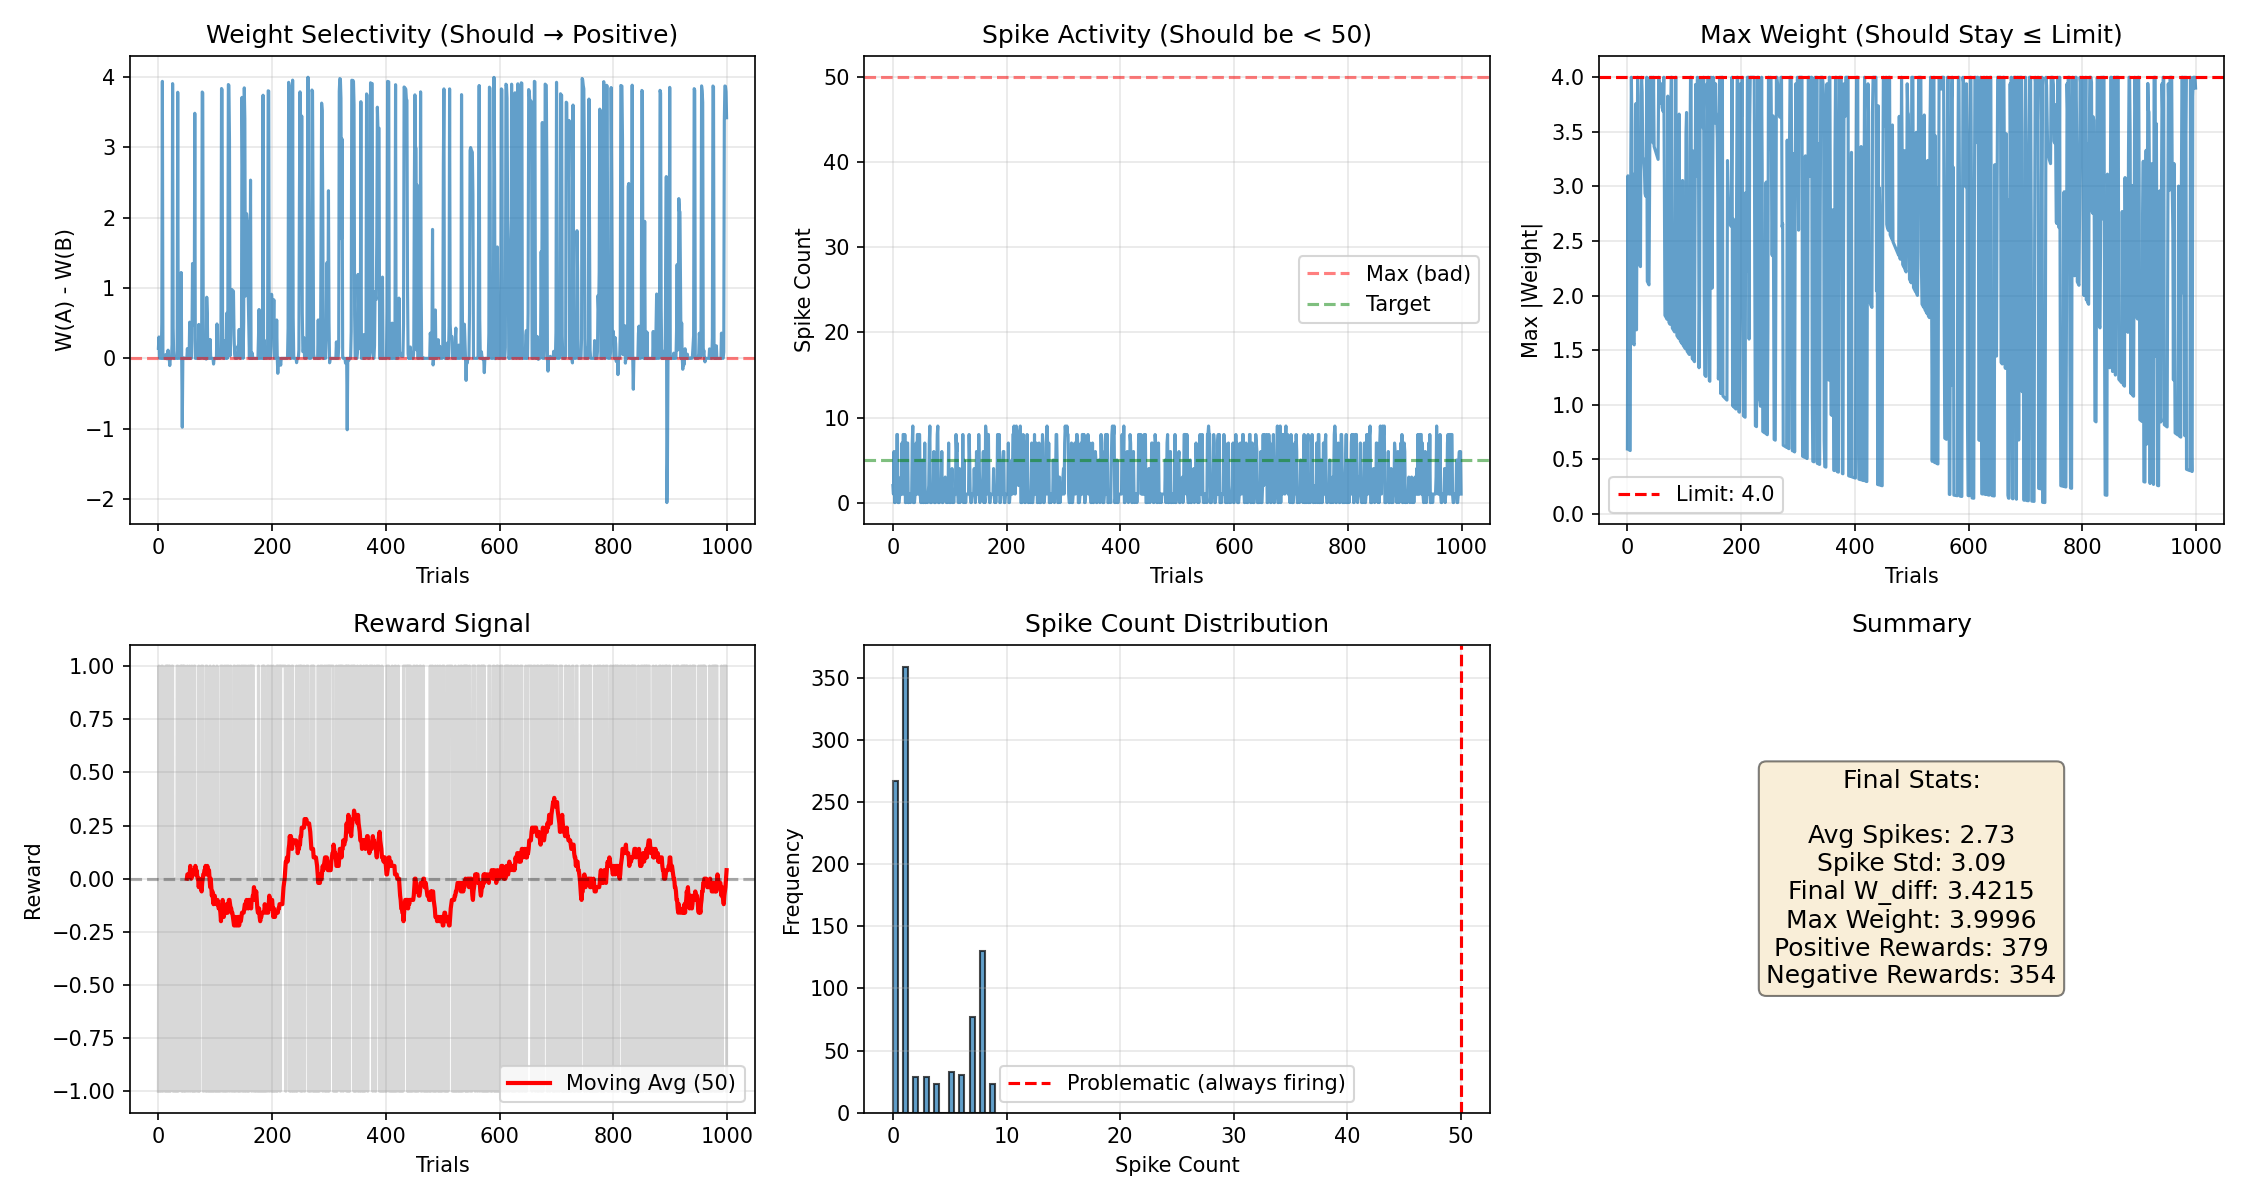
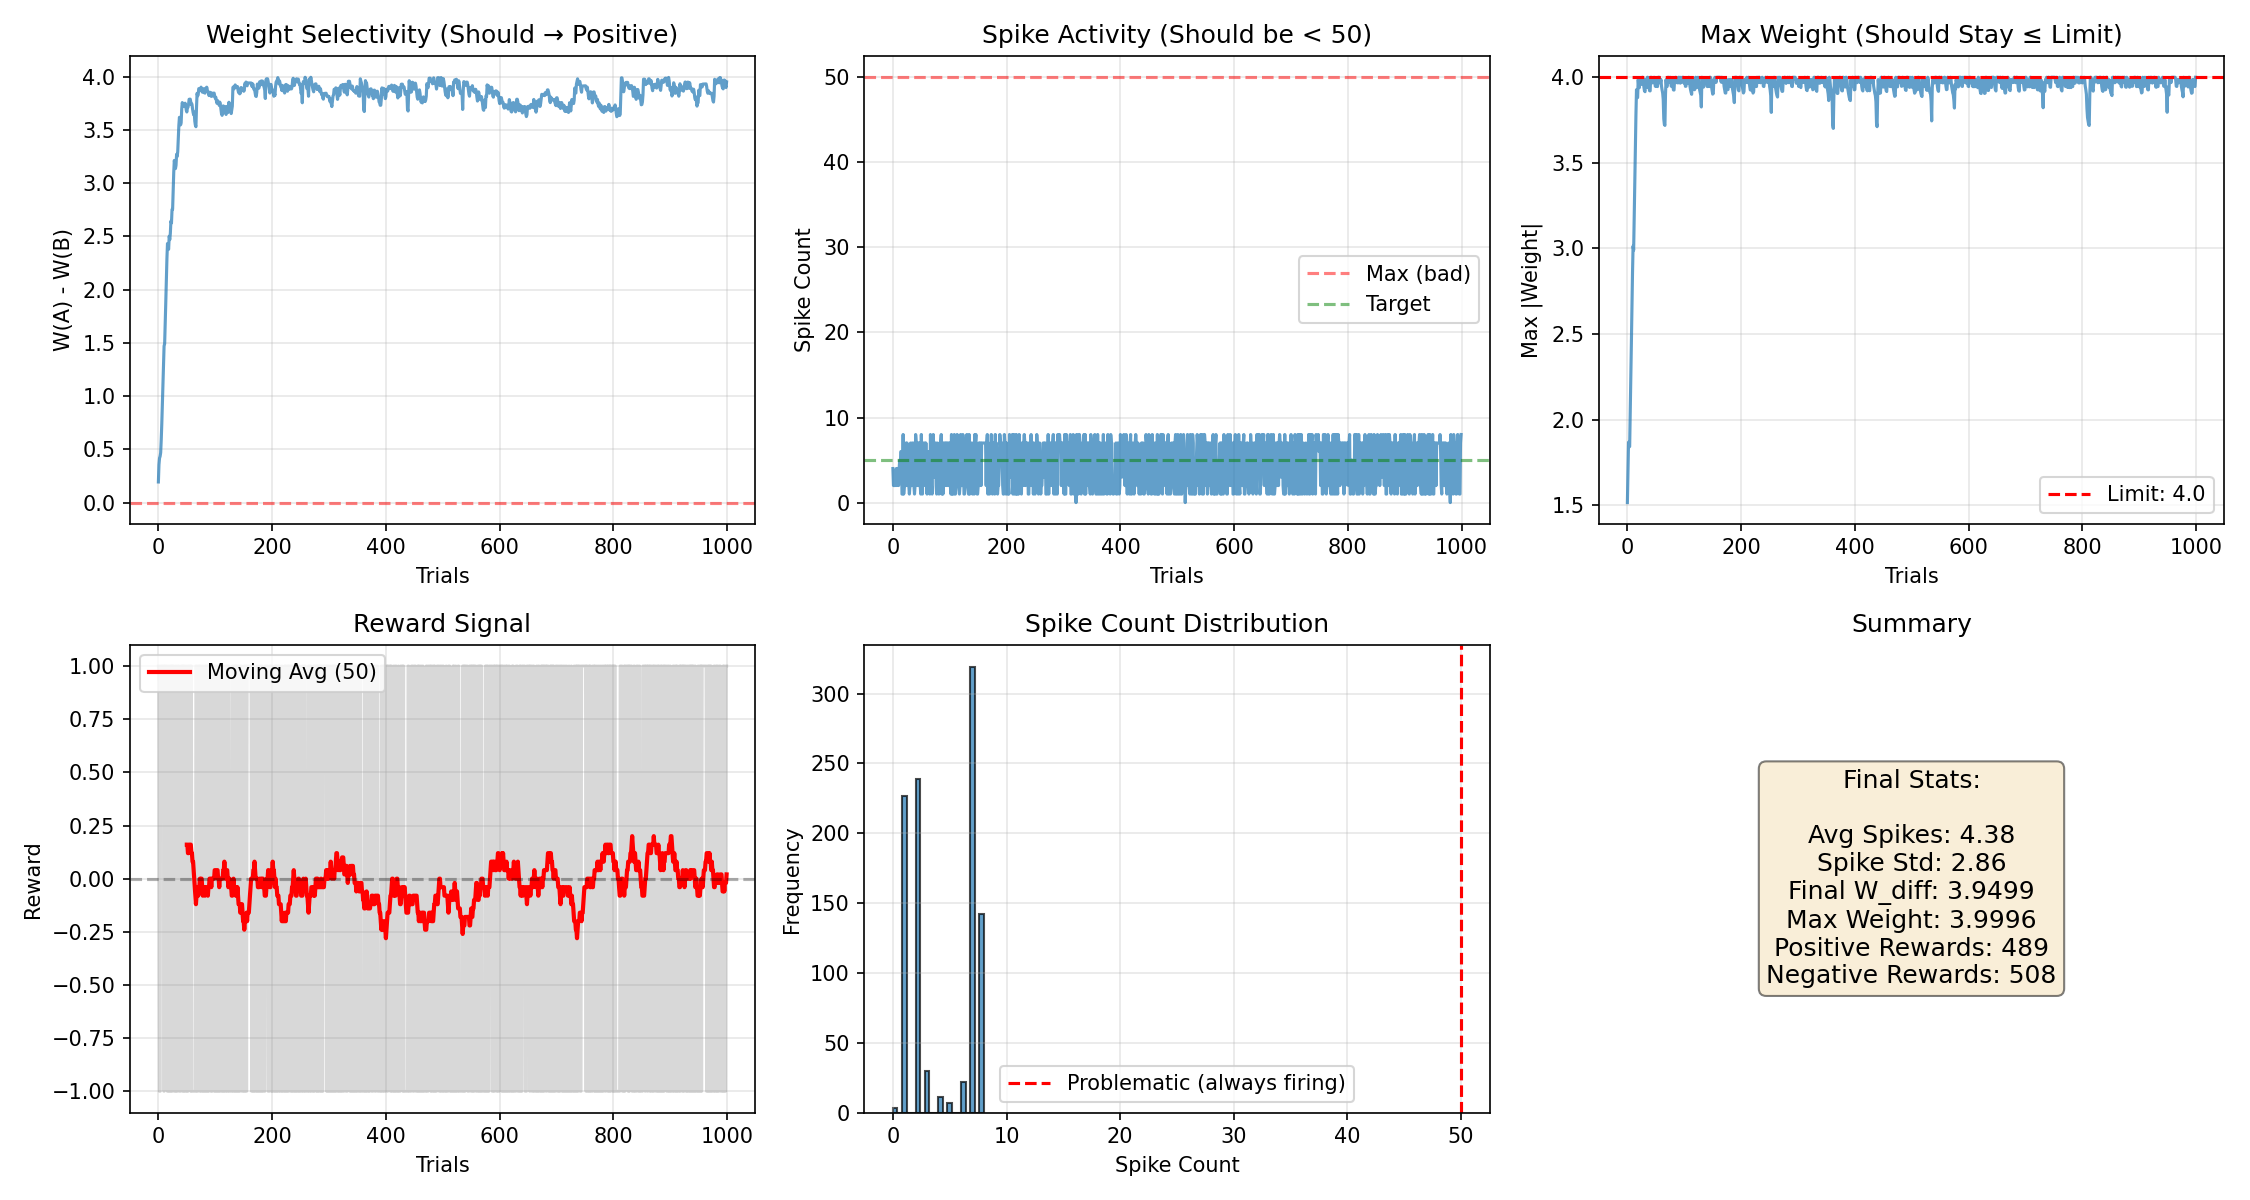
SNN

diff --git a/CNS/mechanisms/snn_module.py b/CNS/mechanisms/snn_module.py
@@ -4,11 +4,21 @@ import numpy as np
 
 
 class IzhikevichLayer(nn.Module):
-    def __init__(self, n_neurons, exc_ratio=0.8, a=0.02, b=0.2, c=-65.0, d=8.0, refractory_steps=5):
+    def __init__(self, 
+                 n_neurons, 
+                 exc_ratio=0.8, 
+                 a=0.02, 
+                 b=0.2, 
+                 c=-65.0, 
+                 d=2.0, 
+                 max_delay_ms=20, 
+                 dt=1.0,
+                 refractory_steps=5):
         super().__init__()
         
         self.n_neurons = n_neurons
-
+        self.dt = dt
+        self.max_delay_steps = int(max_delay_ms / dt)
         self.refractory_steps = refractory_steps
         
         # Dale's Principle
@@ -25,12 +35,20 @@ class IzhikevichLayer(nn.Module):
         self.c = nn.Parameter(torch.ones(n_neurons) * c + torch.randn(n_neurons) * 0.01, requires_grad=False)
         self.d = nn.Parameter(torch.ones(n_neurons) * d + torch.randn(n_neurons) * 0.01, requires_grad=False)
         
+        self.axonal_delays = torch.randint(1, self.max_delay_steps, (n_neurons,))
+
         self.v = None 
         self.u = None 
-        self.trace = None 
-        self.pre_spike = None
+        
+        # Post-synaptic Calcium
+        self.calcium = None
+        self.tau_ca = 20.0
+        self.ca_pre = 0.0
+        self.ca_spike = 1.0
+
+        # Shape: (Batch, Neurons, Time_Window)
+        self.spike_buffer = None
         self.post_spike = None
-        self.trace_decay = 0.95
 
         self.refractory_counter = None
 
@@ -50,29 +68,41 @@ class IzhikevichLayer(nn.Module):
     def reset_state(self, batch_size, device):
         self.v = torch.ones(batch_size, self.synapse.out_features).to(device) * -65.0
         self.u = self.v * self.b
-        self.trace = torch.zeros_like(self.v)
-        self.post_spike = torch.zeros(batch_size, self.synapse.out_features).to(device)
+        self.calcium = torch.zeros(batch_size, self.n_neurons).to(device)
         self.refractory_counter = torch.zeros(batch_size, self.synapse.out_features).to(device)
+        self.axonal_delays = self.axonal_delays.to(device)
+        self.post_spike = torch.zeros(batch_size, self.synapse.out_features).to(device)
+        self.spike_buffer = torch.zeros(batch_size, self.n_neurons, self.max_delay_steps).to(device)
 
-    def forward(self, external_current, dt=1.0):
+    def forward(self, external_current):
         if self.v is None:
             self.reset_state(external_current.shape[0], external_current.device)
             
-        self.pre_spike = external_current.detach()
+        batch_size = external_current.shape[0]
+
+        # delay_indices shape: (Batch, Neurons, 1)
+        delay_indices = self.axonal_delays.view(1, -1, 1).expand(batch_size, -1, 1)
+        delayed_spikes = torch.gather(self.spike_buffer, 2, delay_indices).squeeze(2)
 
         # I_internal = Spikes @ Weights
-        internal_current = self.synapse(self.post_spike)
+        internal_current = self.synapse(delayed_spikes)
 
         I = external_current + internal_current
 
+        last_spike = self.spike_buffer[:, :, 0]
+
+        calcium_influx = last_spike * self.ca_spike
+        d_calcium = (-self.calcium / self.tau_ca) * self.dt + calcium_influx
+        self.calcium = self.calcium + d_calcium
+
         # v' = 0.04v^2 + 5v + 140 - u + I
         dv = (0.04 * self.v**2 + 5 * self.v + 140 - self.u + I)
-        v_next = self.v + dt * dv
+        v_next = self.v + self.dt * dv
         v_next = torch.clamp(v_next, min=-100.0, max=100.0)
 
         # u' = a(bv - u)
         du = self.a * (self.b * self.v - self.u)
-        u_next = self.u + dt * du
+        u_next = self.u + self.dt * du
 
         self.v = v_next
         self.u = u_next
@@ -94,14 +124,23 @@ class IzhikevichLayer(nn.Module):
         )
         self.refractory_counter = torch.clamp(self.refractory_counter, min=0)
 
-        self.trace = self.trace * self.trace_decay + self.post_spike
-        
-        return self.post_spike
-    
+        # buffer[:, :, 1:] = buffer[:, :, :-1]
+        # buffer[:, :, 0] = new_spikes
+        self.spike_buffer = torch.roll(self.spike_buffer, shifts=1, dims=2)
+        self.spike_buffer[:, :, 0] = self.post_spike
+
+        return self.post_spike, self.calcium
+
     def enforce_dale_principle(self, max_exc_weight=1.0, max_inh_weight=1.0):
         with torch.no_grad():
             exc_mask = self.neuron_type > 0
-            inh_mask = self.neuron_type < 0
+            if exc_mask.any():
+                self.synapse.weight[:, exc_mask] = self.synapse.weight[:, exc_mask].clamp(
+                    min=0.0, max=max_exc_weight
+                )
             
-            self.synapse.weight[:, exc_mask] = self.synapse.weight[:, exc_mask].clamp(min=0.0, max=max_exc_weight)
-            self.synapse.weight[:, inh_mask] = self.synapse.weight[:, inh_mask].clamp(min=-max_inh_weight, max=0.0)
+            inh_mask = ~exc_mask  # 取反
+            if inh_mask.any():
+                self.synapse.weight[:, inh_mask] = self.synapse.weight[:, inh_mask].clamp(
+                    min=-max_inh_weight, max=0.0
+                )

diff --git a/CNS/mechanisms/three_factor.py b/CNS/mechanisms/three_factor.py
@@ -2,20 +2,33 @@ import torch
 import torch.nn as nn
 
 class ThreeFactorOptimizer:
-    def __init__(self, layer, n_neurons, lr=1e-3, decay_e=0.95, decay_trace=0.95, max_weight=1.0):
+    def __init__(self, 
+                 layer, 
+                 n_neurons, 
+                 lr=1e-3, 
+                 theta_d=0.5,
+                 theta_p=1.2,
+                 gamma_p = 1.0,
+                 gamma_d = 0.5,
+                 max_weight=4.0
+                 ):
         self.n_neurons = n_neurons
         self.layer = layer
         self.lr = lr
-        self.decay_e = decay_e
-        self.decay_trace = decay_trace 
         self.max_weight = max_weight
+        
+        self.theta_d = theta_d
+        self.theta_p = theta_p
+
+        self.gamma_p = gamma_p
+        self.gamma_d = gamma_d
         
         self.eligibility_trace = torch.zeros(self.n_neurons, self.n_neurons).to(layer.synapse.weight.device)
         
         self.pre_trace = torch.zeros(self.n_neurons).to(layer.synapse.weight.device)
         
         self.dopamine_level = 0.0
-        self.dopmine_decay = 0.9
+        self.dopamine_decay = 0.9
         self.dopamine_baseline = 0.0
 
         self.v_threshold_for_learning = -50.0
@@ -26,20 +39,9 @@ class ThreeFactorOptimizer:
         self.A_plus = 1.0
         self.A_minus = 0.5
 
-    def compute_stdp(self, pre_trace, post_activity):
-        #post (N, 1) @ pre (1, N) -> (N, N)
-        post_col = post_activity.unsqueeze(1)  
-        pre_row = pre_trace.unsqueeze(0)
-
-        hebbian = torch.matmul(post_col, pre_row)
-
-        stdp_update = hebbian * self.A_plus
-
-        return stdp_update
-
     def step(self, reward):
         current_spikes = self.layer.post_spike.detach()
-        current_v = self.layer.v.detach()
+        ca = self.layer.calcium.mean(dim=0)
 
         if current_spikes is None:
             return
@@ -49,24 +51,32 @@ class ThreeFactorOptimizer:
         if self.eligibility_trace.device != current_spikes.device:
             self.eligibility_trace = self.eligibility_trace.to(current_spikes.device)
 
-        post_excitability = torch.relu(current_v - self.v_threshold_for_learning)
-        post_activity = post_excitability.mean(dim=0) # Shape: (N, 1)
+        ltp_mask = (ca > self.theta_p).float()
+        ltd_mask = ((ca > self.theta_d) & (ca <= self.theta_p)).float()
 
-        stdp_update = self.compute_stdp(self.pre_trace, post_activity)        
+        pre_activity = self.layer.spike_buffer.mean(dim=2).mean(dim=0)
         
-        # E(t) = E(t-1) * decay + STDP(t)
-        self.eligibility_trace = self.eligibility_trace * self.decay_e + stdp_update
-        self.pre_trace = self.pre_trace * self.decay_trace + current_spikes.mean(dim=0)
+        # Pre Rate: (1, N)
+        pre_rate_row = pre_activity.unsqueeze(0)
 
-        self.dopamine_level = self.dopamine_level * self.dopmine_decay + reward
+        ltp_mask_col = ltp_mask.unsqueeze(1)
+        ltd_mask_col = ltd_mask.unsqueeze(1)
+
+        delta_ltp = torch.matmul(ltp_mask_col, pre_rate_row) * self.gamma_p
+        delta_ltd = torch.matmul(ltd_mask_col, pre_rate_row) * self.gamma_d
+
+        stdp_update = delta_ltp - delta_ltd
+
+        # E(t) = E(t-1) * decay + STDP(t)
+        self.eligibility_trace = self.eligibility_trace * 0.95  + stdp_update
+
+        self.dopamine_level = self.dopamine_level * self.dopamine_decay + reward
         self.dopamine_level = self.dopamine_level * 0.95 + self.dopamine_baseline * 0.05
 
         # dW = Learning_Rate * Dopamine * Eligibility
         if abs(self.dopamine_level) > 0.001:
-            neuron_types = self.layer.neuron_type.to(self.layer.synapse.weight.device)
-            type_modifier = neuron_types.unsqueeze(0)
-
-            delta_w = self.lr * self.dopamine_level * self.eligibility_trace * type_modifier
+            # dW = lr * dopamine * trace * sign(pre_neuron_type)
+            delta_w = self.lr * self.dopamine_level * self.eligibility_trace
             
             with torch.no_grad():
                 self.layer.synapse.weight += delta_w

diff --git a/test_train.py b/test_train.py
@@ -11,11 +11,11 @@ def test_pavlov_unified():
     n_neurons = 100
     decision_neuron_idx = 99 
     n_steps = 1000
-    device = torch.device("cpu") 
+    device = torch.device("cuda") 
     save_path = "result_unified_fixed.png"
     
     # === 關鍵參數調整 ===
-    input_gain = 15.0  # 降低輸入強度（從 20 降到 15）
+    input_gain = 30.0  # 降低輸入強度（從 20 降到 15）
     noise_level = 2.0  # 降低噪音
     learning_rate = 0.01 # 大幅降低學習率（從 0.05 降到 0.005）
     max_weight = 4.0  # 設定權重上限
@@ -23,17 +23,15 @@ def test_pavlov_unified():
     # 初始化層（加入 refractory period）
     layer = IzhikevichLayer(
         n_neurons, 
-        a=0.02, 
-        b=0.2,
-        d=2.0,  # 調整恢復參數 d
-        refractory_steps=5  # 5 個時間步的不反應期
+        d=2.0,
+        refractory_steps=5 # 5 個時間步的不反應期
     ) 
     
     # === 關鍵：降低連接機率和初始權重 ===
     layer.init_weights(
         strategy="random",
         connection_prob=0.5,  # 只有 10% 的連接
-        max_weight=2.0  # 初始權重最大 0.3
+        max_weight=5.0 # 初始權重最大 0.3
     ) 
     layer.to(device)
     
@@ -44,9 +42,9 @@ def test_pavlov_unified():
     opt = ThreeFactorOptimizer(
         layer, 
         n_neurons, 
+        theta_d=0.3,
+        theta_p=0.8,
         lr=learning_rate,  # 使用更小的學習率
-        decay_e=0.95, 
-        decay_trace=0.90,
         max_weight=max_weight  # 傳入權重上限
     )
 
@@ -84,7 +82,7 @@ def test_pavlov_unified():
             current_input = base_input + noise
             
             # 前向傳播
-            layer(current_input)
+            spikes, calcium = layer(current_input)
             
             # 記錄決策神經元的放電
             decision_spike = layer.post_spike[:, decision_neuron_idx].item()
